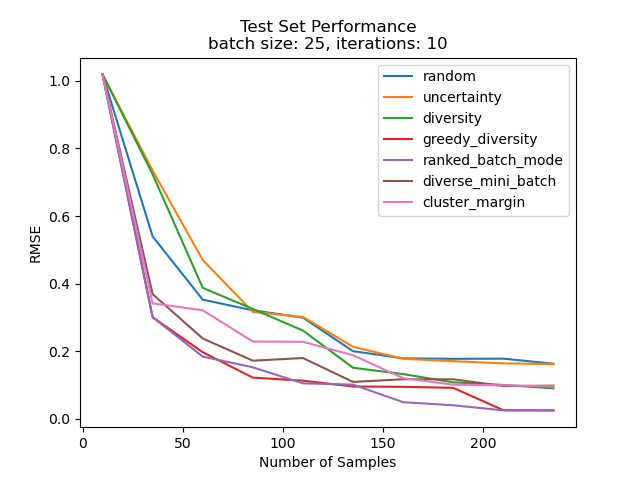
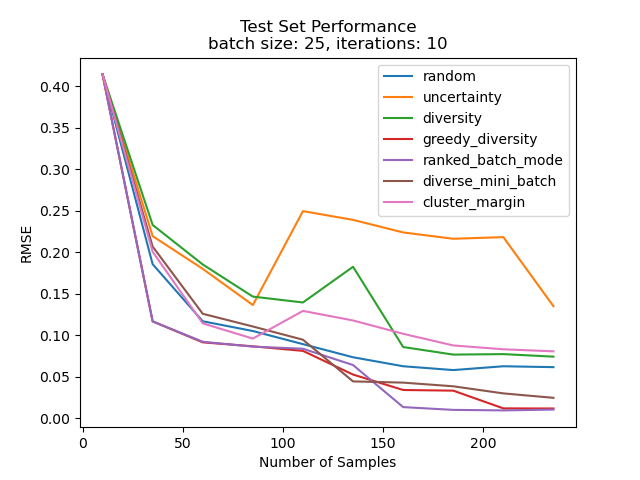
Updating examples

diff --git a/toy_example/example_batch_al.py b/toy_example/example_batch_al.py
@@ -1,9 +1,6 @@
 # %%
 
 import os
-import sys
-sys.path.append('..')
-
 import pickle
 import numpy as np
 
@@ -13,8 +10,8 @@ from sklearn.model_selection import train_test_split
 from sklearn.gaussian_process import GaussianProcessRegressor as GPR
 from sklearn.gaussian_process.kernels import Matern
 
-from active_learning import ActiveLearner
-from sampling_strategies import (
+from BatchActiveLearning.active_learning import ActiveLearner
+from BatchActiveLearning.sampling_strategies import (
     QueryRandom,
     QueryUncertainty,
     QueryDiversity,
@@ -101,10 +98,9 @@ plt.ylabel("X frequency")
 X_scaler = StandardScaler().fit(X)
 y_scaler = StandardScaler().fit(y)
 
-X = X_scaler.transform(X)
-y = y_scaler.transform(y)
-
-X_train, X_test, y_train, y_test = train_test_split(X, y, test_size=0.33)
+X_train, X_test, y_train, y_test = train_test_split(
+    X_scaler.transform(X), y_scaler.transform(y), test_size=0.33
+)
 
 kernel = Matern()
 model = GPR(kernel=kernel, n_restarts_optimizer=10)
@@ -200,6 +196,7 @@ for query_strategy in query_strategies:
         model_kwargs={"return_std": True},
         query_strategy=query_strategy,
         probe_function=probe_X,
+        scaler=StandardScaler(),
         batch_size=batch_size,
         random_state=42,
     )

diff --git a/toy_example/example_batch_sampling.py b/toy_example/example_batch_sampling.py
@@ -1,13 +1,10 @@
 # %%
 
 import os
-import sys
-sys.path.append('..')
-
 import numpy as np
 import matplotlib.pyplot as plt
 
-from sampling_strategies import (
+from BatchActiveLearning.sampling_strategies import (
     QueryStrategy,
     QueryRandom,
     QueryUncertainty,
